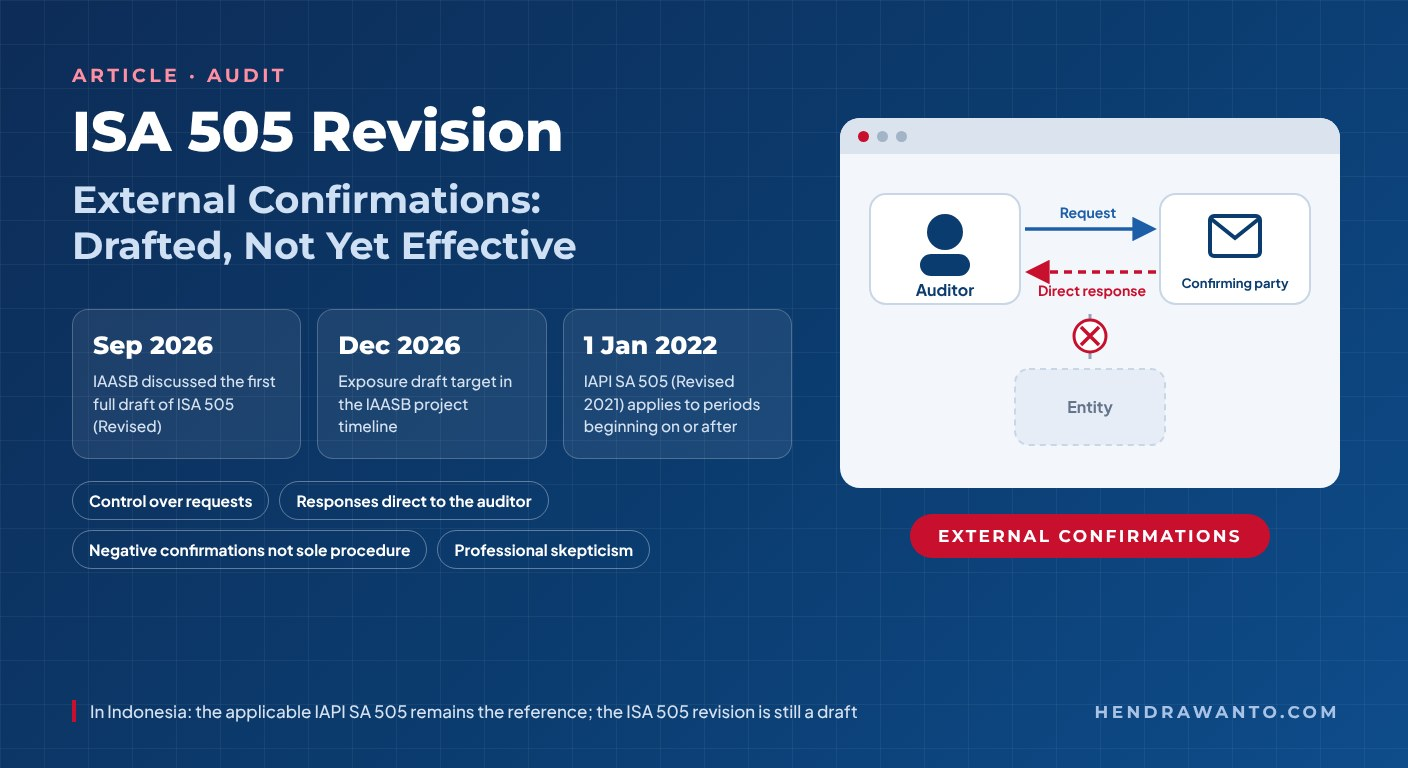
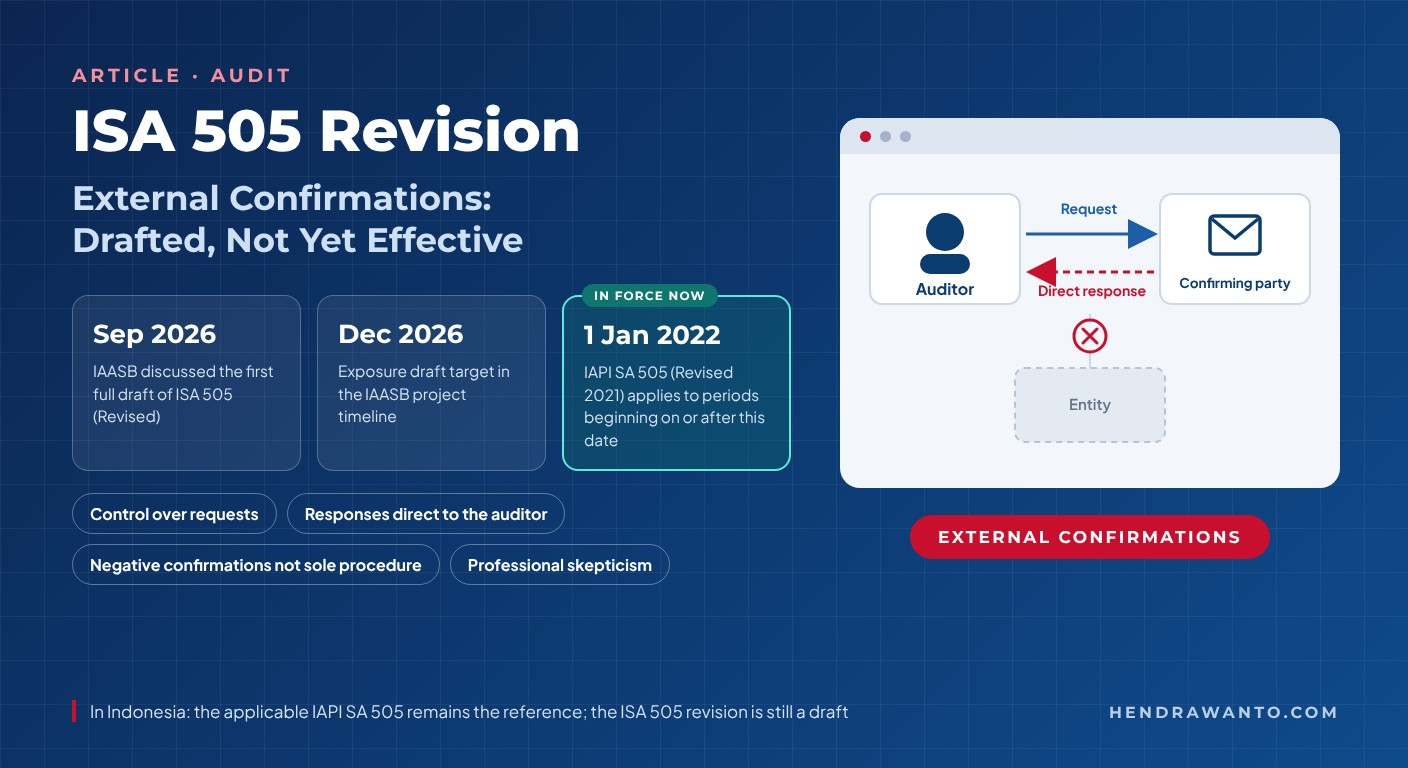
fix(Claude): sampul Revisi ISA 505 — kartu 1 Jan 2022 diberi label berlaku saat ini (ID+EN)
Atas persetujuan Aa Hendra: kartu ketiga sampul diperjelas sebagai tanggal berlaku SA 505 (Revisi 2021) IAPI (periode yang dimulai pada atau setelah 1 Jan 2022, terverifikasi di iapi.or.id); kalimat terpotong diperbaiki; alt sampul ID diselaraskan; laporan bersama.

diff --git a/artikel/revisi-isa-505-konfirmasi-eksternal/index.html b/artikel/revisi-isa-505-konfirmasi-eksternal/index.html
@@ -103,7 +103,7 @@
         <article class="svc-body">
           <p class="art-meta">Oleh <a href="/tentang/">Hendrawanto, SE., Ak., CA., CLI., AseanCPA., CPA., CFI.</a> · <time datetime="2026-10-20">20 Oktober 2026</time></p>
 
-<figure style="margin:0 0 22px"><img src="/assets/articles/revisi-isa-505-sampul-id.jpg" alt="Infografik revisi ISA 505: IAASB membahas draf lengkap pertama ISA 505 (Revisi) pada September 2026, jadwal proyek menargetkan draf eksposur Desember 2026, sedangkan SA 505 (Revisi 2021) IAPI berlaku untuk periode yang dimulai sejak 1 Januari 2022; ilustrasi permintaan konfirmasi dari auditor dan respons langsung dari pihak yang dikonfirmasi tanpa melalui entitas" width="1408" height="768" style="display:block;width:100%;height:auto;border-radius:16px;border:1px solid #dce5ef" decoding="async" fetchpriority="high"></figure>
+<figure style="margin:0 0 22px"><img src="/assets/articles/revisi-isa-505-sampul-id.jpg" alt="Infografik revisi ISA 505: IAASB membahas draf lengkap pertama ISA 505 (Revisi) pada September 2026, jadwal proyek menargetkan draf eksposur Desember 2026, sedangkan SA 505 (Revisi 2021) IAPI berlaku untuk periode yang dimulai pada atau setelah 1 Januari 2022; ilustrasi permintaan konfirmasi dari auditor dan respons langsung dari pihak yang dikonfirmasi tanpa melalui entitas" width="1408" height="768" style="display:block;width:100%;height:auto;border-radius:16px;border:1px solid #dce5ef" decoding="async" fetchpriority="high"></figure>
 
 <p class="art-lead">Perkembangan standar audit internasional sering memunculkan pertanyaan praktis: apakah prosedur konfirmasi yang dipakai auditor hari ini harus segera diubah? Pertanyaan itu relevan karena International Auditing and Assurance Standards Board (IAASB) sedang mengerjakan revisi ISA 505 tentang konfirmasi eksternal. Jawaban singkatnya: rancangan tersebut patut dipantau, tetapi pembahasan proyek internasional tidak otomatis mengganti standar yang berlaku untuk perikatan di Indonesia.</p>
 

diff --git a/LAPORAN_KERJA_BERSAMA.md b/LAPORAN_KERJA_BERSAMA.md
@@ -1215,3 +1215,13 @@ Tambahkan entri tugas berikutnya di bawah ini. Pertahankan ringkasan dan entri y
 - Status publikasi: verifikasi live dan permintaan indeks dilaporkan di jawaban Claude kepada Aa Hendra.
 - Keterbatasan: halaman IAPI mencantumkan "Standar Audit 2025" tanpa tanggal efektif SA 505; artikel tidak menyimpulkan tanggal itu. Teks lengkap draf ISA 505 (Revisi) belum publik, jadi artikel tidak menguraikan usulan persyaratannya.
 - Tindak lanjut untuk ChatGPT: pantau penerbitan ED ISA 505/501 (target Des 2026) untuk artikel lanjutan; 5 error CSP pada halaman privat/alat masih perlu tugas keamanan tersendiri.
+
+## 2026-10-20 10.25 WIB — Claude: perbaikan sampul artikel Revisi ISA 505 (ID + EN)
+
+- Pelaksana: Claude, atas persetujuan Aa Hendra ("setuju") setelah ia menanyakan arti tanggal "1 Jan 2022" di sampul.
+- Base main: `906b253`.
+- Alasan: kartu ketiga sampul ("1 Jan 2022") tidak menjelaskan bahwa itu tanggal berlaku standar yang sedang berlaku, dan kalimatnya terpotong ("periode yang dimulai sejak"). Fakta diverifikasi ulang di iapi.or.id (Standar Audit): SA 505 (Revisi 2021) "berlaku efektif untuk audit atas laporan keuangan untuk periode yang dimulai pada atau setelah tanggal 1 Januari 2022".
+- Perubahan dan berkas: `assets/articles/revisi-isa-505-sampul-{id,en}.jpg` dirender ulang (1408×768, ±147 KB; kartu ketiga diberi label "BERLAKU SAAT INI"/"IN FORCE NOW" dan teks lengkap "…periode yang dimulai pada atau setelah tanggal ini"; isi lain sama); teks alt sampul ID di `artikel/revisi-isa-505-konfirmasi-eksternal/index.html` diselaraskan ("pada atau setelah 1 Januari 2022"). Isi artikel tidak berubah.
+- Pengujian: seo-audit 0 error; smoke test security PASS; sampul dicek visual.
+- Status publikasi: unggahan antarmuka GitHub via Chrome Aa Hendra; verifikasi live dilaporkan di pesan Claude.
+- Tindak lanjut untuk ChatGPT: pada visual, tanggal berlaku standar Indonesia sebaiknya diberi label "berlaku saat ini" agar tidak tertukar dengan linimasa rancangan.
